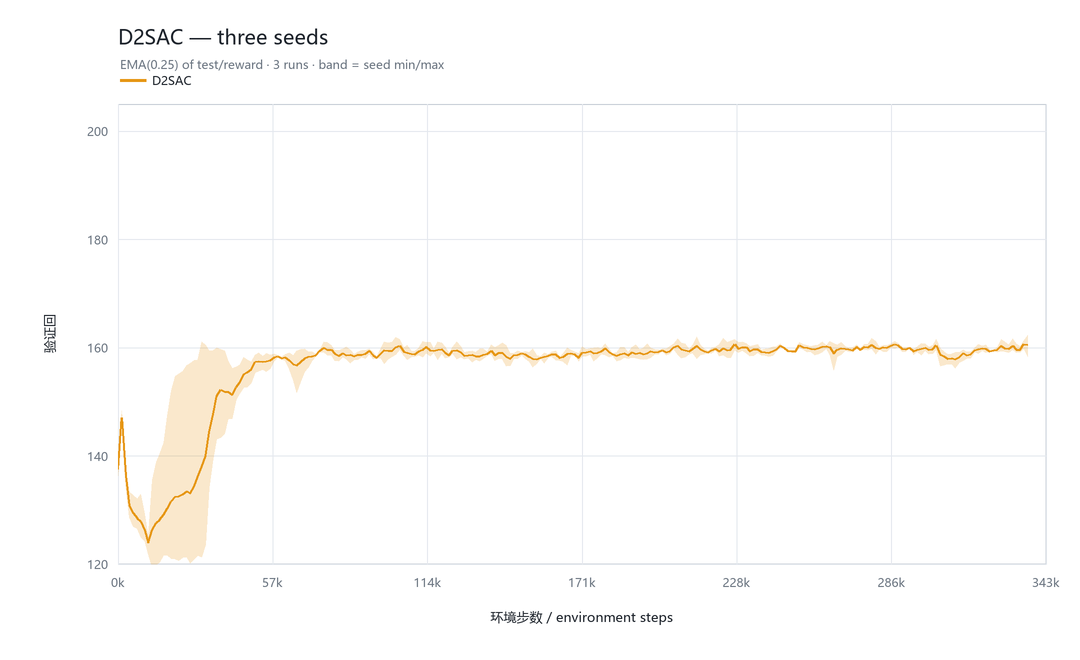
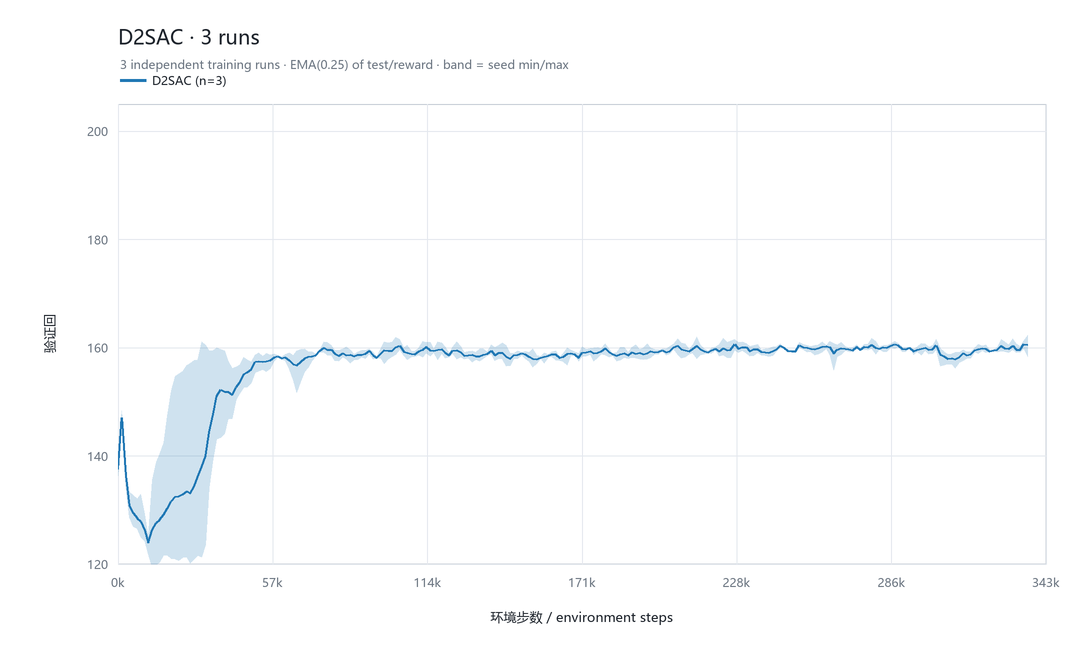
chore: snapshot before moving algorithm chapters

Changed region(s): [[0.0917, 0.5152, 0.9472, 0.8485], [0.0917, 0.0303, 0.5194, 0.1515]]

diff --git a/tools/plot_curves.py b/tools/plot_curves.py
@@ -60,6 +60,9 @@ ALGO_STYLE = {
 }
 
 ORDER = ["ddpg", "td3", "sac", "ppo", "d2sac", "dppo", "eat"]
+
+# one blue for all per-algorithm pages, so the seven pages read as a set
+UNIFIED_BLUE = (31, 119, 180)
 _FONTS: dict[tuple[int, bool], ImageFont.FreeTypeFont] = {}
 
 Y_LABEL = "\u9a8c\u8bc1\u56de\u62a5 / validation return"
@@ -392,9 +395,13 @@ def main() -> int:
         runs = fig6[algo]
         top = max(reward_series(r)[-1][0] for r in runs if reward_series(r))
         p = out / f"{algo}_convergence.png"
-        multi_curve(p, f"{label} \u2014 three seeds",
-                    f"EMA(0.25) of test/reward \u00b7 {len(runs)} runs \u00b7 band = seed min/max",
-                    [(label, runs, color)], 120, 205, top * 1.02, legend_rows=1, band_alpha=55)
+        # per-algorithm figures share one blue so the seven pages read as a set,
+        # and the run count is printed both in the title and in the legend
+        multi_curve(p, f"{label} \u00b7 {len(runs)} runs",
+                    f"{len(runs)} independent training runs \u00b7 EMA(0.25) of test/reward \u00b7 "
+                    f"band = seed min/max",
+                    [(f"{label} (n={len(runs)})", runs, UNIFIED_BLUE)],
+                    120, 205, top * 1.02, legend_rows=1, band_alpha=55)
         made.append(p)
 
     rows = []
